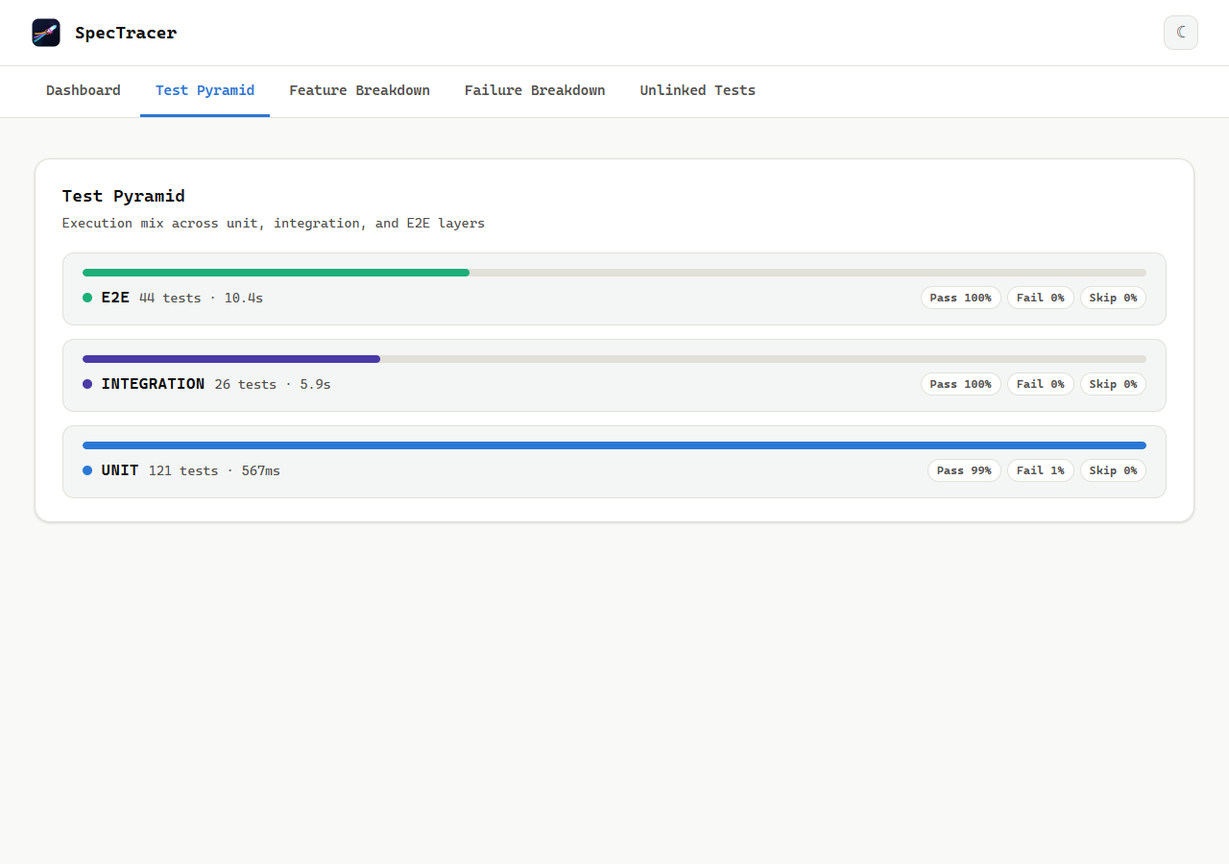
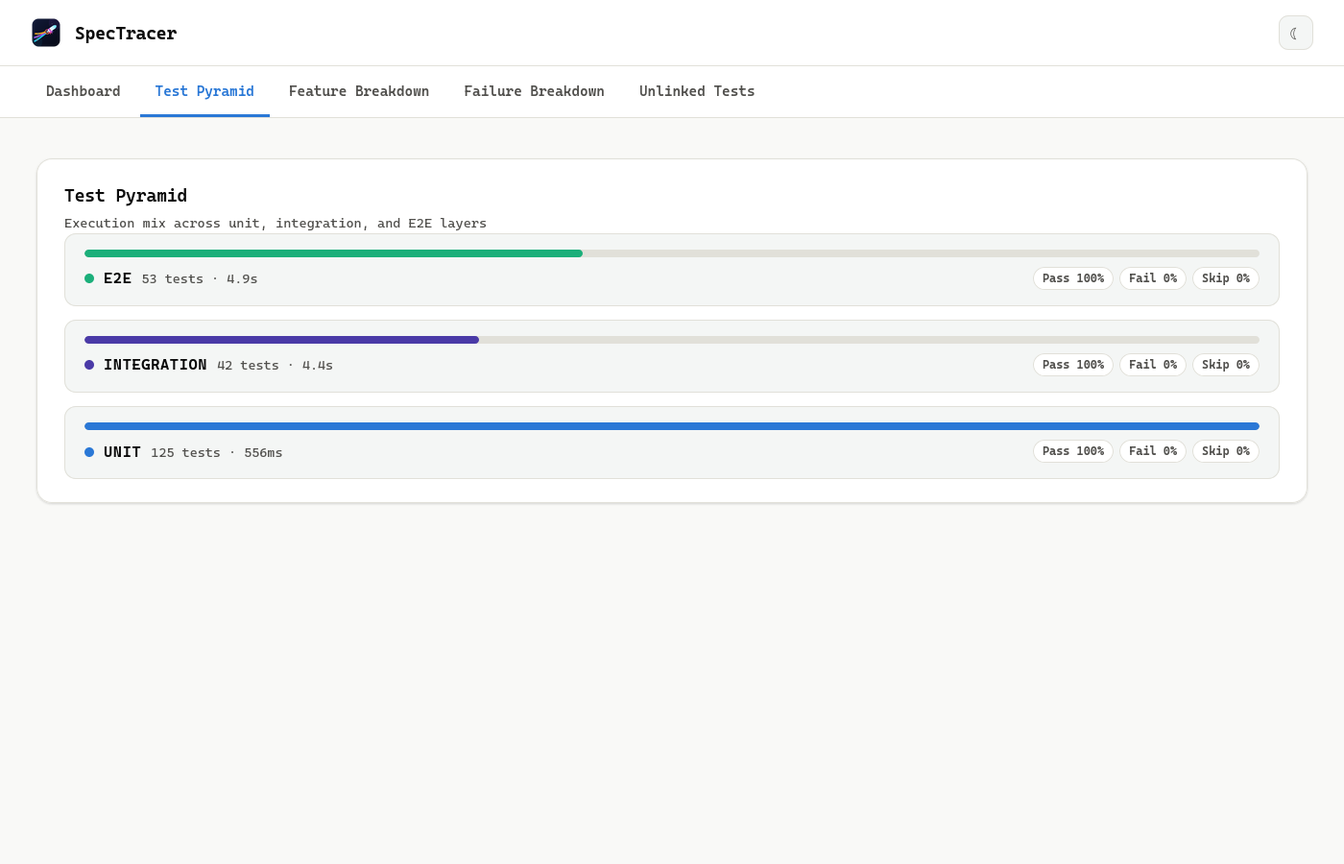
docs: sync docs and screenshots to current behavior
- Update tagging convention to @id: / @scenario: pairing in README and docs
- Fix feature file names in verification commands (drop coverage_ prefix)
- Correct report UI descriptions: headline stats, sortable columns,
  search scope, failure stack trace location, CI gating scope
- Regenerate report screenshots from current output
- Update JSON report docs for completion semantics and omitted fields
- Fix schema descriptions for module and completion keys

diff --git a/docs/features.html b/docs/features.html
@@ -60,24 +60,19 @@
     <p><img src="report-hero.png" alt="Coverage Progress Dashboard with headline metric and health check cards" style="max-width:100%;border-radius:12px;border:1px solid var(--border);margin:1rem 0;"></p>
 
     <div class="feature-block">
-      <h3>&#9679; Headline Metric</h3>
-      <p><strong>Tested: X / Y scenarios (Z%)</strong> &mdash; prominently displayed with color coding, plus a large progress bar with the percentage overlaid on the bar fill:</p>
+      <h3>&#9679; Headline Stats</h3>
+      <p>Three stat cards are displayed, each with a colored progress bar:</p>
       <ul>
-        <li><span class="badge badge-green">Green</span> above the configurable green threshold (default 80%)</li>
-        <li><span class="badge badge-amber">Amber</span> between the amber and green thresholds</li>
-        <li><span class="badge badge-red">Red</span> below the amber threshold (default 50%)</li>
+        <li><strong>Declared tests matched:</strong> <code>X / Y declared tests matched &middot; Z%</code> &mdash; how many declared <code>@require-*</code> layer/module pairs have at least one linked result (presence-based, pass/fail ignored).</li>
+        <li><strong>Scenarios fully matched:</strong> <code>X / Y scenarios fully matched &middot; Z%</code> &mdash; how many scenarios satisfy <em>every</em> declared requirement.</li>
+        <li><strong>Tests passed:</strong> <code>X / Y tests passed &middot; Z%</code> &mdash; the pass/fail rate across all linked results, with a count of failures.</li>
       </ul>
-      <p>A scenario counts as <strong>complete</strong> when every declared <code>@require-*</code> layer has at least one linked test result (presence-based — pass/fail does not matter). The per-feature breakdown below uses a looser definition: a scenario is complete if any linked result exists across all layers.</p>
-    </div>
-
-    <div class="feature-block">
-      <h3>&#9776; Per-Feature Breakdown</h3>
-      <p>Each feature file gets its own mini progress bar with its own complete/incomplete count. This makes it easy to see which areas of the application are well-covered and which need attention.</p>
+      <p>A scenario counts as <strong>fully matched</strong> when every declared <code>@require-*</code> layer has at least one linked test result (presence-based — pass/fail does not matter).</p>
     </div>
 
     <div class="feature-block">
       <h3>&#9881; Health Check Cards</h3>
-      <p>Four health indicator cards sit below the progress bar. Each card shows its status (<span class="badge badge-green">pass</span> / <span class="badge badge-amber">warn</span> / <span class="badge badge-red">fail</span>) at a glance with a colored left border.</p>
+      <p>Four health indicator cards sit below the stats. Each card shows its status (<span class="badge badge-green">pass</span> / <span class="badge badge-amber">warn</span> / <span class="badge badge-red">fail</span>) at a glance with a colored left border. The per-feature completion status is visible in the Feature Traceability tree below, which lists every feature with its own completion bar.</p>
     </div>
 
     <h2 id="pyramid">Test Pyramid Dashboard</h2>
@@ -102,7 +97,7 @@
       <h3>&#9888; Health Indicators</h3>
       <ul>
         <li><strong>Speed Check:</strong> Flags if E2E takes too long (configurable: amber at 10 min, red at 30 min by default)</li>
-        <li><strong>Ratio Check:</strong> Flags if Unit test count &le; Integration + E2E count (inverted pyramid)</li>
+        <li><strong>Ratio Check:</strong> Flags when the pyramid inverts — Unit count &lt; Integration + E2E count (failing). Exact parity (Unit = I+E) is a warning; Unit &gt; I+E passes.</li>
       </ul>
     </div>
 
@@ -117,12 +112,12 @@
 
     <div class="feature-block">
       <h3>&#128269; Search &amp; Filter</h3>
-      <p>A text input at the top of the matrix. Type a tag name or scenario name and the matrix filters to show only matching entries. Client-side JavaScript — no page reload needed.</p>
+      <p>A text input at the top of the matrix. Type a feature or scenario name and the matrix filters to show only matching entries. Client-side JavaScript — no page reload needed.</p>
     </div>
 
     <div class="feature-block">
       <h3>&#9881; Sortable Columns</h3>
-      <p>The tree-table has six columns, each clickable to sort:</p>
+      <p>The tree-table has six columns; four of them (<strong>Name</strong>, <strong>Completion</strong>, <strong>Result</strong>, <strong>Duration</strong>) are clickable to sort:</p>
       <table>
         <thead>
           <tr><th>Column</th><th>Description</th></tr>
@@ -131,7 +126,7 @@
           <tr><td>Name</td><td>Feature / Scenario name with a type pill (e.g. <span class="badge">Feature</span>, <span class="badge">Scenario</span>)</td></tr>
           <tr><td>Completion</td><td>Presence-based completion bar. A horizontal bar fills proportionally (green 100%, amber partial, red 0%) with the percentage <strong>overlaid on the bar itself</strong>. Beside the bar, the <code>N/M</code> requirement count shows how many declared <code>@require-*</code> layers have a match.</td></tr>
           <tr><td>Result</td><td>Outcome pill showing the worst-case result across all linked tests for that feature / scenario (<span class="badge badge-green">pass</span>, <span class="badge badge-amber">skipped</span>, or <span class="badge badge-red">failed</span>)</td></tr>
-          <tr><td>Expected</td><td>Number of test cases the feature file's scenarios declare they need</td></tr>
+          <tr><td>Declared</td><td>Number of declared <code>@require-*</code> requirements for the feature / scenario</td></tr>
           <tr><td>Actual</td><td>Number of individually linked test results found during the run</td></tr>
           <tr><td>Duration</td><td>Total execution time across all linked tests</td></tr>
         </tbody>
@@ -140,7 +135,7 @@
 
     <div class="feature-block">
       <h3>&#9660; Expandable Layer Details</h3>
-      <p>Click a layer pill to expand and see individual test names, their pass/fail/skip statuses, and expandable failure stack traces for any failed test.</p>
+      <p>Expand a scenario to see its declared layer requirements (<code>OK</code>/<code>Missing</code> chips) and individual linked test results with their pass/fail/skip statuses. Full stack traces for failed tests live in the Failure Breakdown page below.</p>
     </div>
 
     <h2 id="failures">Failure Breakdown</h2>
@@ -165,7 +160,7 @@
     </div>
 
     <h2 id="unlinked">Unlinked Tests</h2>
-    <p>Test results whose <code>@scenario:VALUE</code> tag doesn't match any scenario's <code>@id:VALUE</code> end up here. Results without a <code>@scenario:</code> tag are excluded (they can never participate in identity-based linking).</p>
+    <p>Test results that carry at least one tag but whose <code>@scenario:VALUE</code> tags (if any) don't match any scenario's <code>@id:VALUE</code> end up here. Results with no tags at all are silently excluded (they can never participate in identity-based linking).</p>
 
     <p>This is invaluable for catching:</p>
     <ul>
@@ -211,7 +206,7 @@
     <p>Fully opt-in and backward compatible: omit <code>output_json</code> and nothing changes.</p>
 
     <h2 id="health-checks">Health Checks</h2>
-    <p>Four health indicators on the Dashboard section. Each card has a colored left border reflecting its status. They are visual by default, but any of them can gate CI: list a check under <code>fail_on</code> and a failing (red) status makes the tool exit <code>1</code> (see the <a href="usage.html#health-checks">Usage guide</a>).</p>
+    <p>Four health indicators on the Dashboard section. Each card has a colored left border reflecting its status. They are visual by default, but most can gate CI: list a check under <code>fail_on</code> and a failing (red) status makes the tool exit <code>1</code>. The Unlinked check is visual-only and cannot gate CI (see the <a href="usage.html#health-checks">Usage guide</a>).</p>
 
     <div class="feature-grid">
       <div class="feature-card">
@@ -232,7 +227,7 @@
       <div class="feature-card">
         <div class="feature-icon">&#9872;</div>
         <h4>Unlinked Tests</h4>
-        <p>Test results with <code>@scenario:VALUE</code> that matched no scenario's <code>@id:VALUE</code>. Pass at 0, warn at 1&ndash;3, fail at 4+.</p>
+        <p>Test results carrying at least one tag whose <code>@scenario:VALUE</code> (if any) matched no scenario's <code>@id:VALUE</code>. Pass at 0, warn at 1&ndash;3, fail at 4+.</p>
       </div>
     </div>
 
@@ -291,7 +286,7 @@
   }
 }</code></pre>
       <p>In your feature file:</p>
-<pre><code><span class="hl-tag">@id:FC-42</span> <span class="hl-tag">@scenario:FC-42</span> <span class="hl-tag">@require-unit:auth</span> <span class="hl-tag">@require-integration:billing</span> <span class="hl-tag">@require-e2e:checkout</span>
+<pre><code><span class="hl-tag">@id:FC-42</span> <span class="hl-tag">@require-unit:auth</span> <span class="hl-tag">@require-integration:billing</span> <span class="hl-tag">@require-e2e:checkout</span>
 <span class="hl-section">Scenario:</span> Authenticated billing checkout</code></pre>
       <p>Each module-scoped requirement is <strong>only</strong> satisfied by a linked result registered under that exact module key. Unscoped results (config key <code>""</code>) never satisfy a module-scoped requirement. A bare <code>@require-unit</code> / <code>@require-e2e</code> (no module) is satisfied by any linked result for that layer.</p>
       <p>In the HTML report, satisfied modules show as chips like <code>e2e (checkout) OK</code>; missing ones show <code>Missing</code>.</p>
@@ -308,7 +303,8 @@
         <tr><td>Empty/missing test result path</td><td>Silently ignored (zero tests for that layer)</td></tr>
         <tr><td>Malformed XML or JSON</td><td>Aborts with a clear error message</td></tr>
         <tr><td>Test with <code>@scenario:</code> matches no <code>@id:</code></td><td>Listed in "Unlinked Tests"</td></tr>
-        <tr><td>Test has no <code>@scenario:</code> tag</td><td>Silently excluded — cannot participate in identity-based linking</td></tr>
+        <tr><td>Test has tags but no <code>@scenario:</code> tag</td><td>Listed in "Unlinked Tests" — it can never link, but is surfaced so it isn't silently lost</td></tr>
+        <tr><td>Test has no tags at all</td><td>Silently excluded — cannot participate in identity-based linking</td></tr>
         <tr><td>Scenario matches no test</td><td>Shown as "incomplete"</td></tr>
         <tr><td><code>@require-*</code> with no matching test</td><td>Layer flagged as missing</td></tr>
         <tr><td>Feature-level tags</td><td>Not inherited by scenarios</td></tr>

diff --git a/docs/architecture.html b/docs/architecture.html
@@ -97,12 +97,12 @@
       <div class="feature-card">
         <div class="feature-icon">&#128279;</div>
         <h4>linker.py</h4>
-        <p>Identity-based pairing. Matches <code>@scenario:VALUE</code> on test results against <code>@id:VALUE</code> on scenarios. 17 lines — the simplest module.</p>
+        <p>Identity-based pairing. Matches <code>@scenario:VALUE</code> on test results against <code>@id:VALUE</code> on scenarios. 26 lines — the simplest module.</p>
       </div>
       <div class="feature-card">
         <div class="feature-icon">&#128202;</div>
         <h4>aggregator.py</h4>
-        <p>Computes completion stats, layer breakdowns, feature trees, health checks, and unlinked results. 223 lines of pure logic.</p>
+        <p>Computes completion stats, layer breakdowns, feature trees, health checks, and unlinked results. 229 lines of pure logic.</p>
       </div>
       <div class="feature-card">
         <div class="feature-icon">&#128451;</div>
@@ -112,7 +112,7 @@
       <div class="feature-card">
         <div class="feature-icon">&#128187;</div>
         <h4>renderers.py</h4>
-        <p>Jinja2 template with a few lines of embedded HTML/CSS/JS. Produces the self-contained report file.</p>
+        <p>Jinja2 template (~900 lines of embedded HTML/CSS/JS) plus render helpers. Produces the self-contained report file.</p>
       </div>
       <div class="feature-card">
         <div class="feature-icon">&#128203;</div>
@@ -153,7 +153,7 @@
 
     <div class="feature-block">
       <h3>CucumberParser</h3>
-      <p>Parses Cucumber JSON output. Handles both array-of-scenarios and single-object formats. Extracts:</p>
+      <p>Parses Cucumber JSON output. Accepts both a single feature object and an array of feature objects. Extracts:</p>
       <ul>
         <li>Scenario-level <code>tags</code> array for linking</li>
         <li>Scenario name and status</li>
@@ -176,7 +176,7 @@
 <pre><code><span class="hl-kw">def</span> <span class="hl-fn">link</span>(scenarios, results):
     links = {}
     <span class="hl-kw">for</span> scenario <span class="hl-kw">in</span> scenarios:
-        ids = {t[<span class="hl-num">3</span>:] <span class="hl-kw">for</span> t <span class="hl-kw">in</span> scenario.tags <span class="hl-kw">if</span> t.<span class="hl-fn">startswith</span>(<span class="hl-str">"@id:"</span>)}
+        ids = {t[<span class="hl-num">4</span>:] <span class="hl-kw">for</span> t <span class="hl-kw">in</span> scenario.tags <span class="hl-kw">if</span> t.<span class="hl-fn">startswith</span>(<span class="hl-str">"@id:"</span>)}
         linked = [
             r <span class="hl-kw">for</span> r <span class="hl-kw">in</span> results
             <span class="hl-kw">if</span> <span class="hl-fn">any</span>(t.<span class="hl-fn">startswith</span>(<span class="hl-str">"@scenario:"</span>) <span class="hl-kw">and</span> t[<span class="hl-num">10</span>:] <span class="hl-kw">in</span> ids <span class="hl-kw">for</span> t <span class="hl-kw">in</span> r.tags)
@@ -208,7 +208,7 @@
       <li><strong>CSS:</strong> Full stylesheet with light/dark themes via <code>data-theme</code>, falling back to <code>prefers-color-scheme</code></li>
       <li><strong>JavaScript:</strong> Client-side hash routing (<code>#/</code>, <code>#/pyramid</code>, etc.), theme toggle (persisted in <code>localStorage</code>), sortable tables, search/filter</li>
       <li><strong>Logo:</strong> Optional base64-encoded PNG</li>
-      <li><strong>Data:</strong> All report data is embedded as JSON in a <code>&lt;script&gt;</code> tag</li>
+      <li><strong>Data:</strong> All report data is rendered server-side by Jinja2 into the HTML (no embedded JSON payload)</li>
     </ul>
 
     <p>The report file loads a monospace font from a CDN (Cascadia Mono via jsDelivr) but degrades gracefully to system <code>ui-monospace</code> if offline. No other external dependencies &mdash; it works on any OS in any modern browser.</p>
@@ -276,10 +276,10 @@
 uv run pytest tests/integration --junitxml=reports/int.xml
 
 <span class="hl-com"># E2E is split by module so @require-e2e:&lt;module&gt; can be dogfooded</span>
-uv run behave features/coverage_linking.feature --tags="not @scenario:FC-004" -f json -o reports/e2e-linker.json
-uv run behave features/coverage_health.feature -f json -o reports/e2e-aggregator.json
-uv run behave features/coverage_dashboard.feature -f json -o reports/e2e-renderers.json
-uv run behave features/coverage_module_scope.feature -f json -o reports/e2e-parsers.json
+uv run behave features/linking.feature --tags="not @scenario:FC-004" -f json -o reports/e2e-linker.json
+uv run behave features/health.feature -f json -o reports/e2e-aggregator.json
+uv run behave features/dashboard.feature -f json -o reports/e2e-renderers.json
+uv run behave features/module_scope.feature -f json -o reports/e2e-parsers.json
 <span class="hl-com"># …plus collectors / report_model / edge splits (see .github/workflows/ci.yml)</span>
 
 uv run spec-tracer

diff --git a/docs/installation.html b/docs/installation.html
@@ -93,17 +93,17 @@ uv run pytest tests/unit --junitxml=reports/unit.xml -q
 uv run pytest tests/integration --junitxml=reports/int.xml -q
 
 <span class="hl-com"># Module-scoped Cucumber JSON for SpecTracer dogfood</span>
-uv run behave features/coverage_linking.feature --tags="not @scenario:FC-004" -f json -o reports/e2e-linker.json
-uv run behave features/coverage_edge_cases.feature --tags="not @scenario:FC-EDGE-006" -f json -o reports/e2e-linker-edge.json
-uv run behave features/coverage_linking.feature --tags=@scenario:FC-004 -f json -o reports/e2e-collectors.json
-uv run behave features/coverage_health.feature -f json -o reports/e2e-aggregator.json
-uv run behave features/coverage_internals.feature --tags=@scenario:FC-008 -f json -o reports/e2e-aggregator-internals.json
-uv run behave features/coverage_dashboard.feature -f json -o reports/e2e-renderers.json
-uv run behave features/coverage_internals.feature --tags=@scenario:FC-009 -f json -o reports/e2e-renderers-internals.json
-uv run behave features/coverage_module_scope.feature -f json -o reports/e2e-parsers.json
-uv run behave features/coverage_edge_cases.feature --tags=@scenario:FC-EDGE-006 -f json -o reports/e2e-parsers-edge.json
-uv run behave features/coverage_internals.feature --tags=@scenario:FC-007 -f json -o reports/e2e-parsers-internals.json
-uv run behave features/coverage_json_output.feature -f json -o reports/e2e-report-model.json
+uv run behave features/linking.feature --tags="not @scenario:FC-004" -f json -o reports/e2e-linker.json
+uv run behave features/edge_cases.feature --tags="not @scenario:FC-EDGE-006" -f json -o reports/e2e-linker-edge.json
+uv run behave features/linking.feature --tags=@scenario:FC-004 -f json -o reports/e2e-collectors.json
+uv run behave features/health.feature -f json -o reports/e2e-aggregator.json
+uv run behave features/internals.feature --tags=@scenario:FC-008 -f json -o reports/e2e-aggregator-internals.json
+uv run behave features/dashboard.feature -f json -o reports/e2e-renderers.json
+uv run behave features/internals.feature --tags=@scenario:FC-009 -f json -o reports/e2e-renderers-internals.json
+uv run behave features/module_scope.feature -f json -o reports/e2e-parsers.json
+uv run behave features/edge_cases.feature --tags=@scenario:FC-EDGE-006 -f json -o reports/e2e-parsers-edge.json
+uv run behave features/internals.feature --tags=@scenario:FC-007 -f json -o reports/e2e-parsers-internals.json
+uv run behave features/json_output.feature -f json -o reports/e2e-report-model.json
 
 <span class="hl-com"># Generate a report (using installed CLI)</span>
 spec-tracer

diff --git a/docs/usage.html b/docs/usage.html
@@ -319,7 +319,9 @@ spec-tracer path/to/other-config.json</code></pre>
         <tr><th>Top-level key</th><th>Contents</th></tr>
       </thead>
       <tbody>
-        <tr><td><code>summary.completion</code></td><td>The headline <code>tested</code> / <code>total</code> / <code>percent</code> metric</td></tr>
+        <tr><td><code>schemaVersion</code></td><td>Version of the report format (for compatibility)</td></tr>
+        <tr><td><code>generatedAt</code></td><td>ISO 8601 UTC timestamp of when the report was generated</td></tr>
+        <tr><td><code>summary.completion</code></td><td><code>tested</code> = scenarios fully matched, <code>total</code> = scenario count, <code>percent</code>/<code>pct</code> = <em>declared tests matched</em> percentage (satisfied / required) — note that <code>percent</code> is not <code>tested / total</code>. Also includes <code>satisfied</code> and <code>required</code>.</td></tr>
         <tr><td><code>summary.pyramid</code></td><td>Per-layer test count, duration (ms), and pass rate</td></tr>
         <tr><td><code>summary.health</code></td><td><code>status</code> (<code>green</code>/<code>amber</code>/<code>red</code>) and <code>reasons[]</code>, derived from the same health checks shown on the dashboard</td></tr>
         <tr><td><code>features[]</code></td><td>Every feature, with <code>scenarios[]</code> containing tags, layer <code>requirements[]</code>, and linked <code>results[]</code></td></tr>
@@ -330,7 +332,7 @@ spec-tracer path/to/other-config.json</code></pre>
 
     <div class="callout callout-info">
       <strong>&#8505; Omitted, not null</strong>
-      <code>duration</code> and <code>failureMessage</code> on a result are omitted entirely when not available from the underlying JUnit/Cucumber data, rather than emitted as <code>null</code>.
+      <code>module</code> on a result or unlinked test, <code>duration</code> on a result, and <code>failureMessage</code> on a failed result are omitted entirely when not available from the underlying JUnit/Cucumber data, rather than emitted as <code>null</code>.
     </div>
 
     <div class="callout callout-success">

diff --git a/docs/ci-cd.html b/docs/ci-cd.html
@@ -326,11 +326,11 @@
     </div>
 
     <h2 id="standup">The Standup Metric</h2>
-    <p>SpecTracer's headline metric — <strong>Tested: X / Y scenarios (Z%)</strong> — is designed for daily standup discussion. Unlike code coverage (which measures lines executed), this metric measures <strong>business scenario coverage</strong>:</p>
+    <p>SpecTracer's headline stats — <strong>X / Y declared tests matched (Z%)</strong> and <strong>X / Y scenarios fully matched (Z%)</strong> — are designed for daily standup discussion. Unlike code coverage (which measures lines executed), they measure <strong>business scenario coverage</strong>:</p>
     <ul>
       <li>It's <strong>meaningful to product managers</strong> — "we haven't tested the password reset flow yet"</li>
       <li>It's <strong>actionable for developers</strong> — "scenario @id:FC-43 needs a unit test"</li>
-      <li>It's <strong>visible to leadership</strong> — a single number that reflects the team's testing health</li>
+      <li>It's <strong>visible to leadership</strong> — simple numbers that reflect the team's testing health</li>
     </ul>
     <p>Teams that use SpecTracer find themselves discussing coverage in standup naturally: "Our coverage dropped from 85% to 78% this sprint &mdash; let's add tests for the new billing scenarios before the sprint ends."</p>
 

diff --git a/docs/index.html b/docs/index.html
@@ -175,7 +175,7 @@ spec-tracer
       <div class="feature-card">
         <div class="feature-icon">&#9679;</div>
         <h4>Coverage Progress</h4>
-        <p>The headline metric: <strong>Tested: X / Y (Z%)</strong>. Per-feature breakdowns with green/amber/red thresholds. Designed for daily standups.</p>
+        <p>Headline stats for declared-tests matched and scenarios fully matched, with green/amber/red thresholds. Per-feature completion bars in the traceability tree. Designed for daily standups.</p>
       </div>
       <div class="feature-card">
         <div class="feature-icon">&#9650;</div>
@@ -200,7 +200,7 @@ spec-tracer
       <div class="feature-card">
         <div class="feature-icon">&#9872;</div>
         <h4>Unlinked Tests</h4>
-        <p>Test results whose <code>@scenario:</code> tag doesn't match any scenario's <code>@id:</code>. Catch orphaned or mis-tagged tests that would otherwise go unnoticed.</p>
+        <p>Test results that carry at least one tag but whose <code>@scenario:</code> tags (if any) don't match any scenario's <code>@id:</code>. Catch orphaned or mis-tagged tests that would otherwise go unnoticed.</p>
       </div>
       <div class="feature-card">
         <div class="feature-icon">{ }</div>

diff --git a/README.md b/README.md
@@ -73,7 +73,7 @@ uv run python run_local.py
 
 1. Write `.feature` files describing your scenarios, tagged so test results can link back to them (see [Tagging Convention](#tagging-convention) below).
 2. Run your test suites and produce JUnit XML (unit/integration) and/or Cucumber JSON (E2E) output.
-3. Create a `specspectracer.config.json` in your project root:
+3. Create a `spectracer.config.json` in your project root:
 
    ```json
    {
@@ -88,7 +88,7 @@ uv run python run_local.py
 4. Run the tool:
 
    ```bash
-   uv run python build_pyramid.py
+   uv run spec-tracer
    ```
 
    It auto-discovers `spectracer.config.json` in the current directory — no flags needed. Open the generated `report.html` in a browser.
@@ -96,32 +96,33 @@ uv run python run_local.py
 To point at a config file with a different name or location, pass it as the only argument:
 
 ```bash
-uv run python build_pyramid.py path/to/other-config.json
+uv run spec-tracer path/to/other-config.json
 ```
 
 > **Note on shells:** use forward slashes (`./spectracer.config.json`) or a bare filename. A leading `.\` (PowerShell-style) can be mangled by POSIX-style shells (Git Bash, WSL), since backslash is their escape character there.
 
 ## Tagging Convention
 
-Feature files and test results connect via **shared tags**. There are two kinds of tags a scenario can carry:
+Feature files and test results connect via **paired identity tags** (`@id:` on scenarios, `@scenario:` on results) and **layer requirement tags** (`@require-*`). There are three tag roles:
 
 ```gherkin
 Feature: User Login
 
-  @FC-42 @regression @require-unit:auth @require-integration:auth @require-e2e:auth
+  @id:FC-42 @regression @require-unit:auth @require-integration:auth @require-e2e:auth
   Scenario: Successful login with valid credentials
     Given the user is on the login page
     When they enter valid credentials
     Then they should be redirected to the dashboard
 
-  @FC-43
+  @id:FC-43
   Scenario: Login with invalid password shows error
     Given the user is on the login page
     When they enter an invalid password
     Then an error message should be displayed
 ```
 
-- **Linking tags** (`@FC-42`, `@regression`) — shared with test results. Any test result carrying a matching tag links to that scenario.
+- **Scenario identity tags** (`@id:FC-42`) — placed on Gherkin scenarios. Declares the scenario's stable identity.
+- **Test reference tags** (`@scenario:FC-42`) — placed on test results (via pytest markers, test names, or annotations). A result with `@scenario:FC-42` links to any scenario carrying `@id:FC-42`.
 - **Layer requirement tags** (`@require-unit`, `@require-integration`, `@require-e2e`) — declare which layers *must* have coverage for this scenario. These are never used for linking, and the tool flags any declared layer that ends up with zero linked results.
 
 ### Module-scoped requirements
@@ -130,11 +131,12 @@ Feature: User Login
 
 ### Matching rules
 
-- **Exact string match** — `@FC-42` matches `@FC-42` only, not `@FC-4` or `@FC-42-smoke`.
-- **OR logic** — a scenario tagged `[@FC-42, @regression]` links to a test carrying just `@regression`.
+- **Prefix-filtered** — only `@scenario:VALUE` on results and `@id:VALUE` on scenarios participate. `@regression`, `@smoke`, and other tags are ignored during linking.
+- **Exact VALUE match** — `@scenario:FC-42` matches `@id:FC-42` only, not `@id:FC-4` or `@id:FC-42-smoke`.
+- **OR logic within prefixed tags** — a result tagged `[@scenario:FC-42, @scenario:FC-43]` links to any scenario carrying either `@id:FC-42` or `@id:FC-43`.
 - **Scenario tags only** — tags on the `Feature:` line are **not** inherited by scenarios.
 - **`@require-*` tags** are excluded from linking — no collision with linking tags is possible.
-- **Tag collisions link everywhere** — if two scenarios (in the same or different feature files) share a tag, one matching test result links to both.
+- **Tag collisions link everywhere** — if two scenarios (in the same or different feature files) share an `@id:` value, one matching test result links to both.
 
 ### Where the tool looks for tags in test results
 
@@ -186,13 +188,13 @@ The tool is configured entirely through a JSON file — there are no CLI flags. 
 
 ## The Report
 
-The generated HTML is a single self-contained file (all CSS/JS inlined — no external assets, safe to email or archive) with five sections:
+The generated HTML is a single self-contained file (all CSS/JS inlined — a monospace font loads from a CDN with a system fallback — safe to email or archive) with five sections:
 
 <img src="docs/report-features.png" alt="SpecTracer report Feature Traceability view" style="max-width:100%;border-radius:12px;margin:1rem 0;">
 
-1. **Coverage Progress Summary** — the headline `Tested: X / Y scenarios (Z%)` metric, plus a per-feature breakdown. Color-coded green/amber/red using the configurable thresholds.
+1. **Coverage Progress Summary** — headline stats for declared-tests matched and scenarios fully matched, plus the four health checks. Color-coded green/amber/red using the configurable thresholds.
 2. **Global Pyramid Dashboard** — a 3-tier visualization (E2E / Integration / Unit) with test counts, duration, and pass rate per layer, plus health indicators for an inverted pyramid or an E2E layer with excessive runtime.
-3. **Feature Traceability & Scenario Matrix** — a searchable, expandable tree: Feature → Scenario → Layer results, with full Gherkin text, declared layer requirements (✓/✗), and per-test pass/fail/skip status with failure stack traces.
+3. **Feature Traceability & Scenario Matrix** — a searchable, expandable tree: Feature → Scenario → Layer results, with full Gherkin text, declared layer requirements (✓/✗), and per-test pass/fail/skip status. (Failure stack traces live on the Failure Breakdown page.)
 4. **Detailed Failure Breakdown** — every failed test across all layers, with feature/scenario context and full stack trace on expand.
 5. **Unlinked Tests** — test results whose tags didn't match any scenario, to help catch orphaned or mis-tagged tests.
 
@@ -200,8 +202,8 @@ The generated HTML is a single self-contained file (all CSS/JS inlined — no ex
 
 Setting `output_json` in the config produces a JSON file alongside the HTML report, built from the exact same internal data — the two outputs can never drift apart. It conforms to [`spectracer-report.schema.json`](spectracer-report.schema.json) (Draft 7), which is the authoritative contract; the highlights:
 
-- `summary.completion` / `summary.pyramid` / `summary.health` — the same headline metric, per-layer stats, and health status (`green`/`amber`/`red` with `reasons[]`) shown on the HTML dashboard.
-- `features[].scenarios[].results[]` — every linked test result per scenario, with `duration` (milliseconds) and `failureMessage` **omitted** rather than `null` when not available, and layer requirement satisfaction under `requirements[]`.
+- `summary.completion` / `summary.pyramid` / `summary.health` — the headline stats, per-layer stats, and health status (`green`/`amber`/`red` with `reasons[]`) shown on the HTML dashboard. Note that `summary.completion.percent` is the *declared tests matched* percentage (satisfied/required); `tested`/`total` are scenario counts and `percent` is not `tested / total`.
+- `features[].scenarios[].results[]` — every linked test result per scenario, with `module`, `duration` (milliseconds) and `failureMessage` **omitted** rather than `null` when not available, and layer requirement satisfaction under `requirements[]`.
 - `unlinkedTests[]` — the same orphaned results shown in the HTML report's "Unlinked Tests" page.
 - `config` — a verbatim echo of the resolved config used to produce the report, for provenance if the JSON is archived independently of the repo.
 
@@ -241,12 +243,14 @@ That's the whole integration — one `curl` (or your metrics SDK's equivalent) r
 | No config file found and none specified | Errors out — a config file is mandatory. |
 | Config missing `features` or `output` | Errors out — both are mandatory keys. |
 | Empty or missing test result path | Silently ignored (zero tests for that layer). |
-| Malformed JUnit XML or Cucumber JSON | Aborts with a clear error message. |
+| Malformed JUnit XML | Aborts with a clear error message naming the offending file. |
+| Malformed Cucumber JSON | Aborts on the JSON decode error (the message is not contextualized with the file path). |
 | Test matches no scenario | Listed in "Unlinked Tests". |
 | Scenario matches no test | Shown as "incomplete". |
 | Scenario has `@require-*` but no matching test | That layer is flagged as missing. |
 | Feature-level tags | Not inherited by scenarios — only scenario-level tags are used for matching. |
-| Scenario Outline / Examples, `Rule:`, `Background:`, non-English dialects | Deferred to whatever your Gherkin/E2E framework does with them — the tool doesn't parse Gherkin syntax beyond `Feature:`, tags, and `Scenario:` lines. |
+| Scenario Outline / Examples | Parsed as a single scenario named from the `Scenario Outline:` line; expanded Examples rows are not individually parsed. |
+| `Rule:`, `Background:`, non-English dialects | Deferred to whatever your Gherkin/E2E framework does with them — the tool only understands `Feature:`, tags, `Scenario:` / `Scenario Outline:`, and steps. |
 | Unicode / special characters | Preserved, HTML-escaped in the report. |
 
 ## What This Tool Doesn't Do
